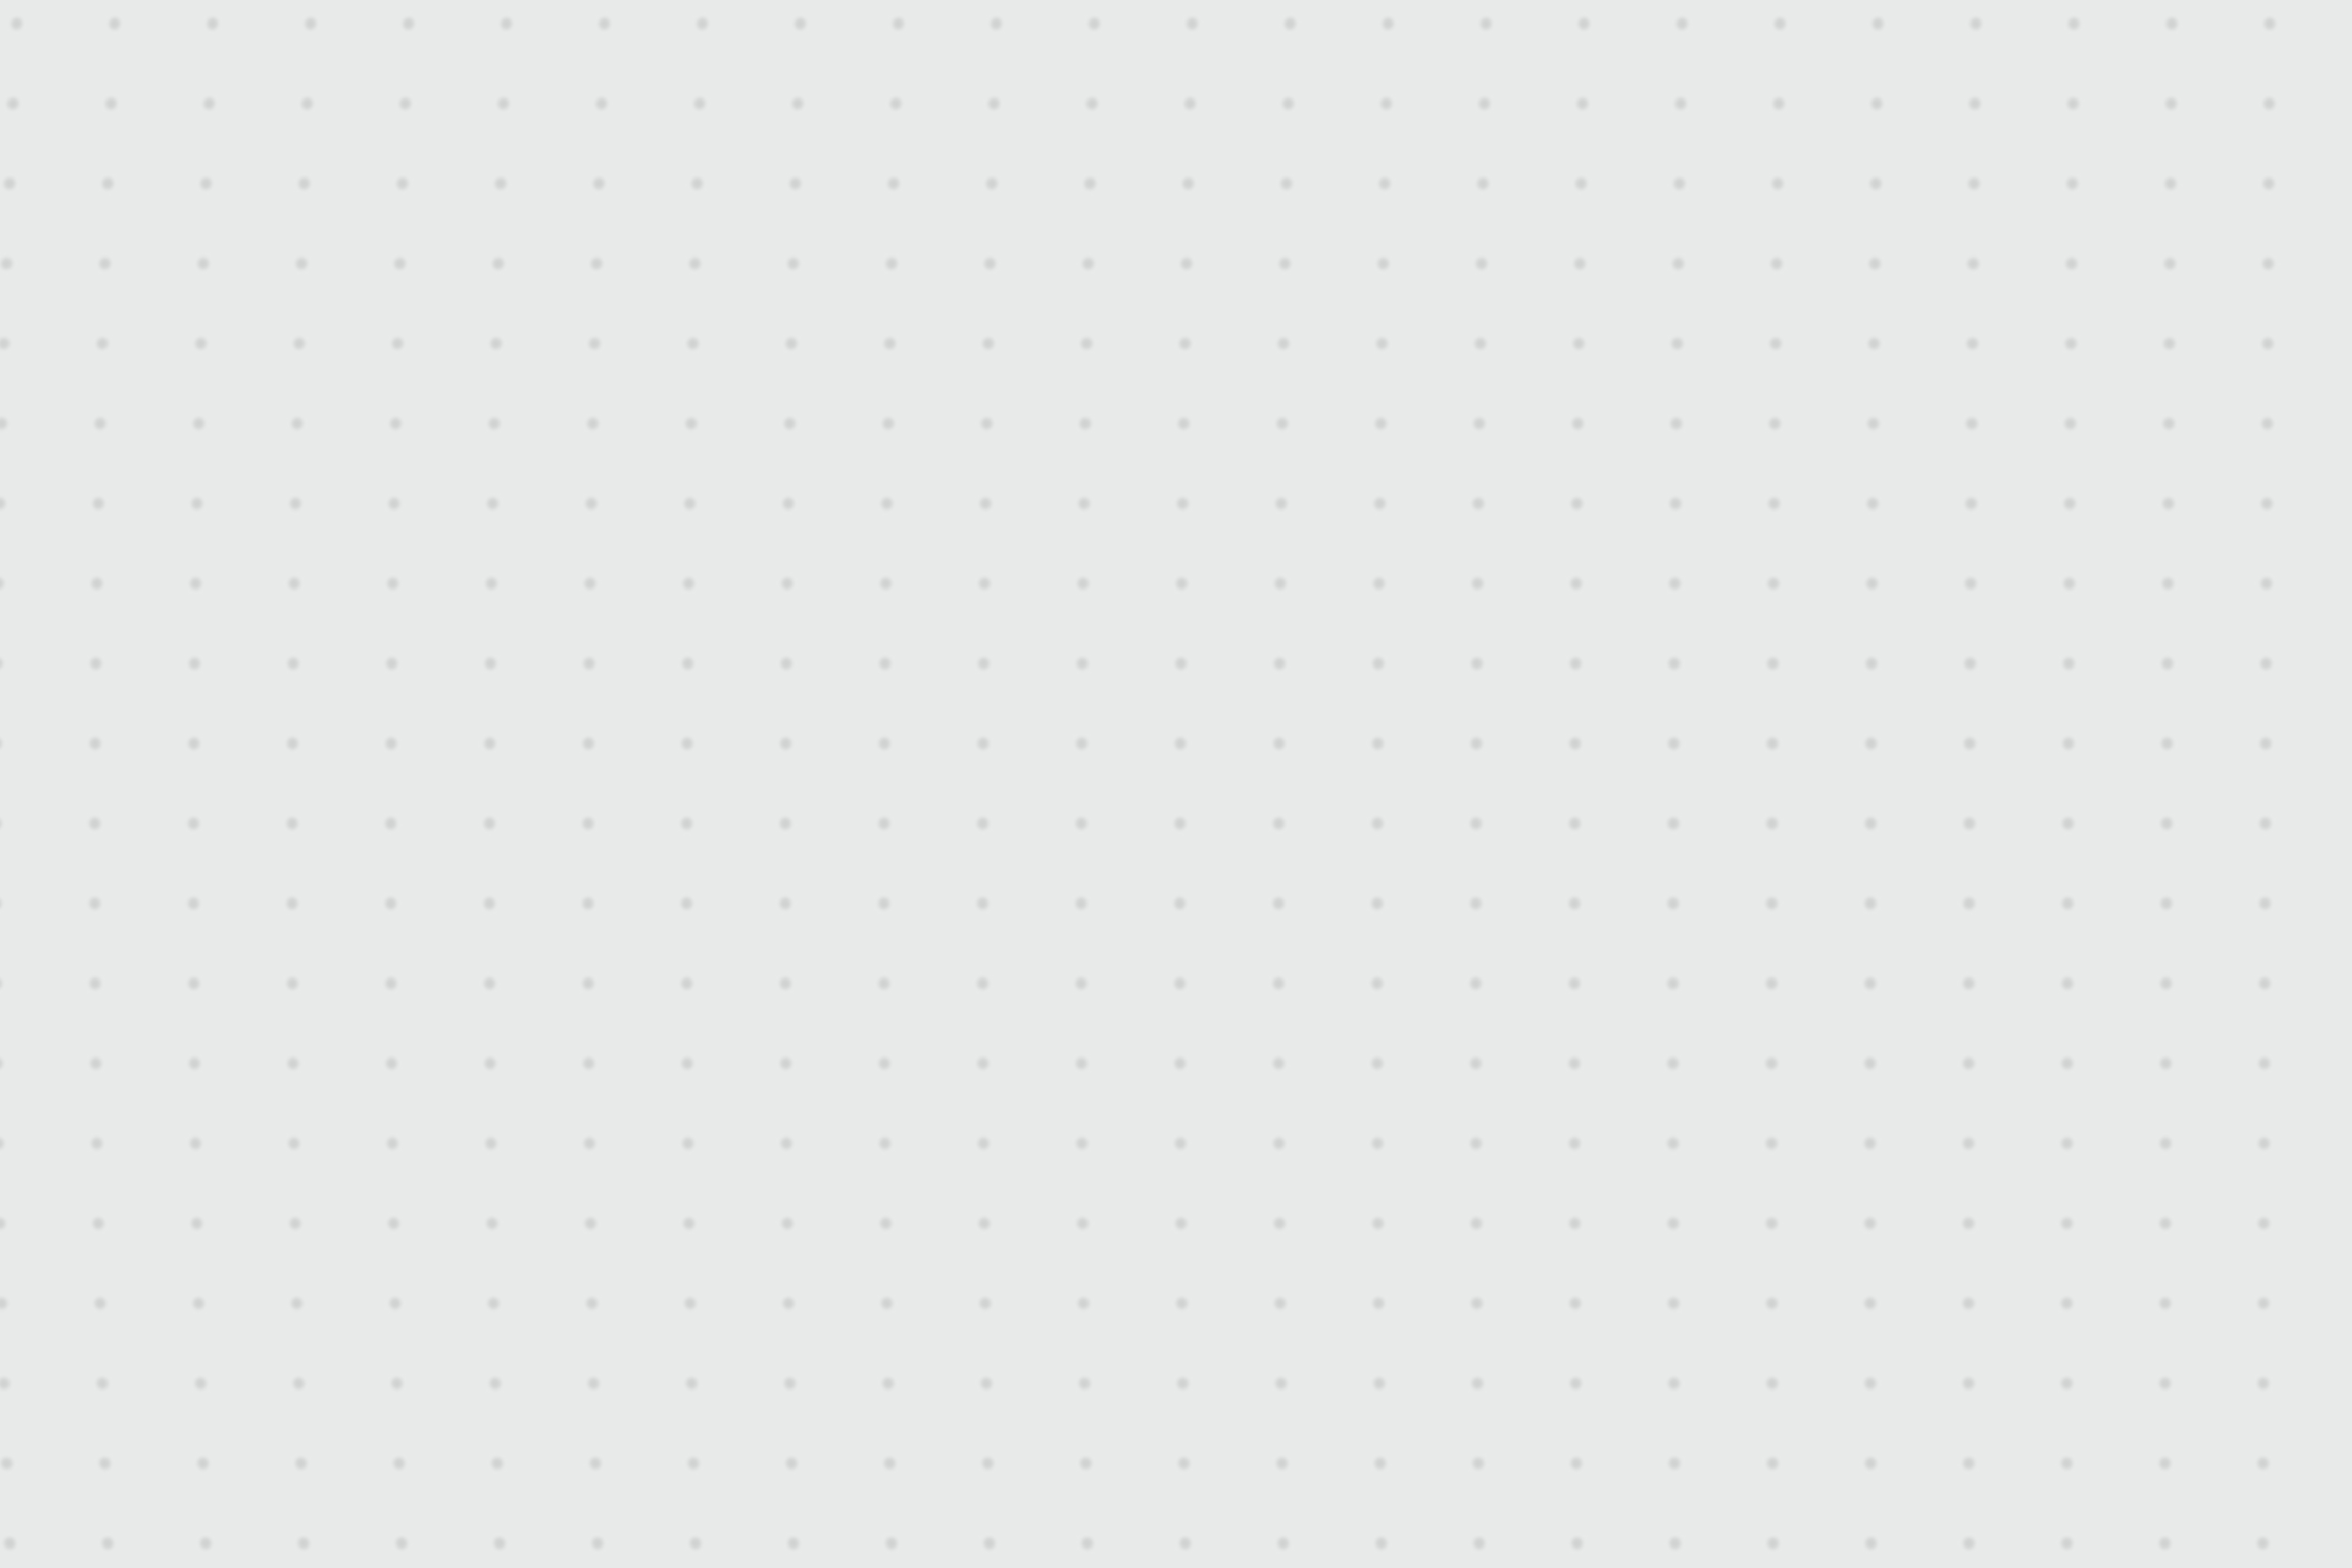
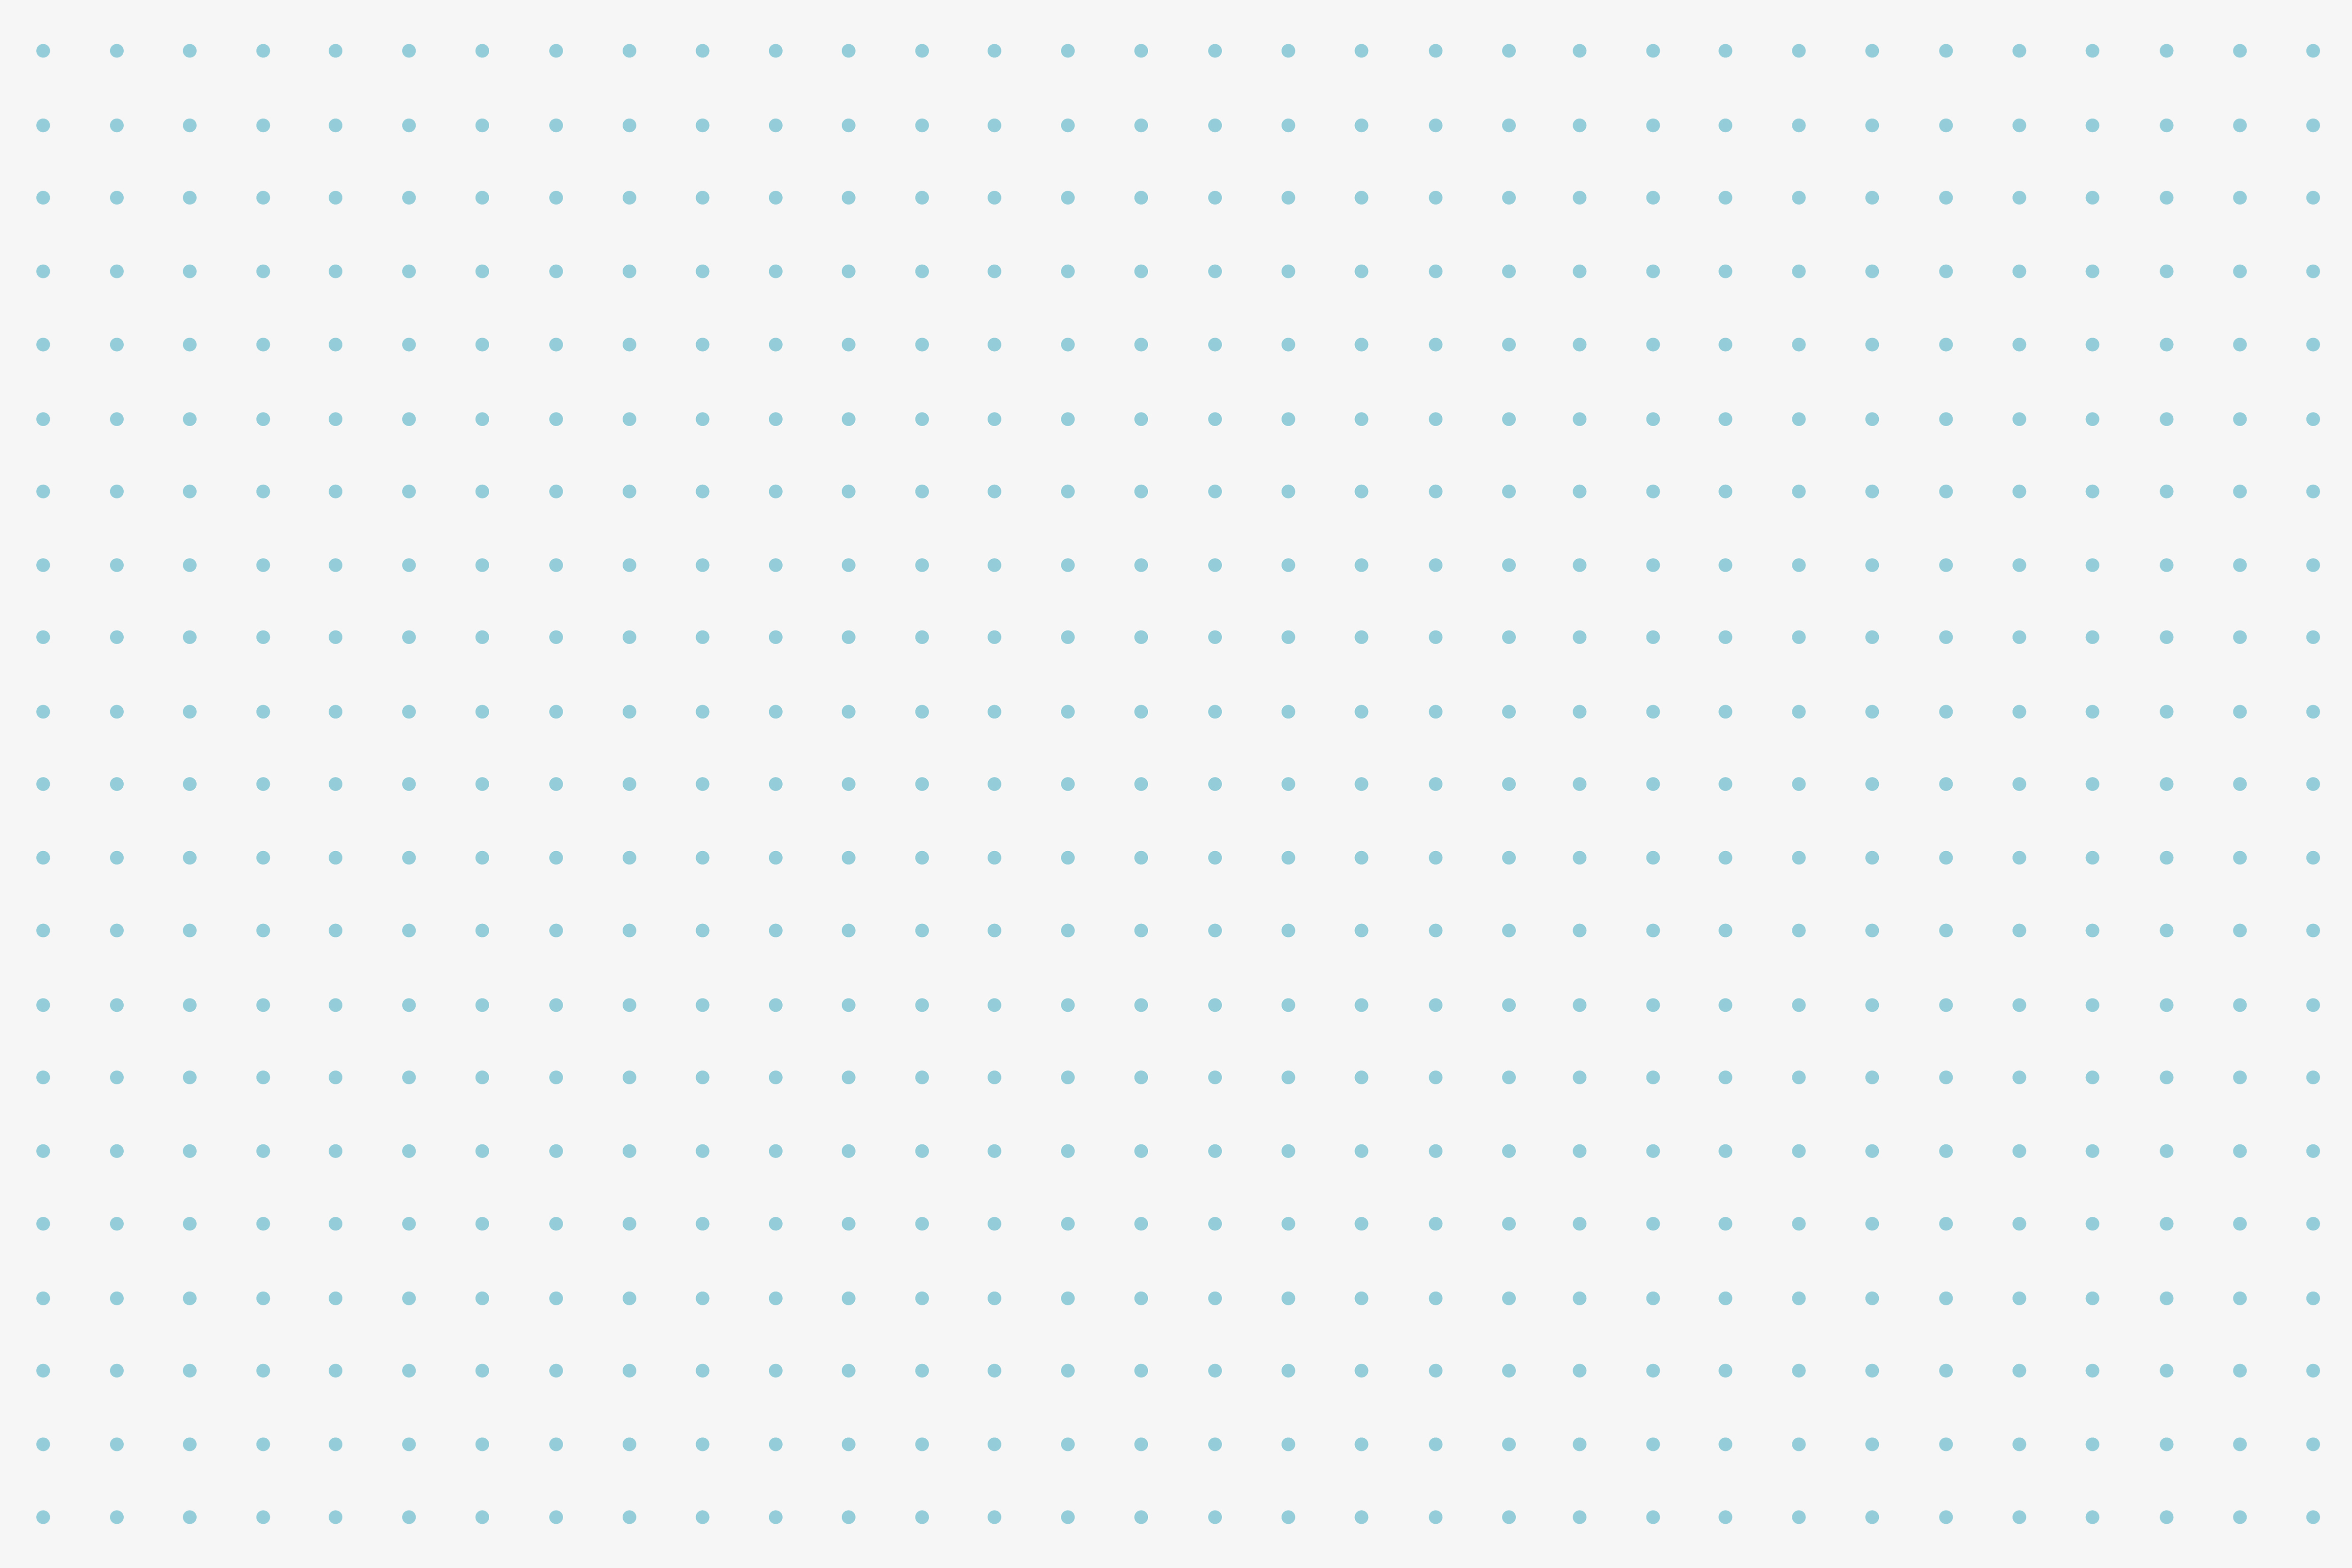
dotted background fix

diff --git a/src/index.css b/src/index.css
@@ -13,7 +13,7 @@ body {
   background-color: #fafafa;
   background-image: url("./assets/dotted-bg.jpg");
   background-repeat: repeat;
-  background-size: 500px auto;
+  background-size: 480px 320px;
   color: #1a1a2e;
   min-height: 100vh;
   -webkit-font-smoothing: antialiased;

diff --git a/.impeccable.md b/.impeccable.md
@@ -1,0 +1,23 @@
+## Design Context
+
+### Users
+Friend groups (2–6 people) who want to hold each other accountable on weekly tasks. Used Monday–Sunday, primarily on desktop browsers during the workday or in the evening. The user is already invested in the game because their friends are watching — the interface should reinforce that competitive energy rather than calm it down.
+
+### Brand Personality
+**Clean. Colorful. Clicky.**
+Three words: *competitive, playful, crisp.*
+The reference is neal.fun — generous whitespace, one clear action per screen, personality through small details not visual complexity. Layered with Mario Party's bold player colors and Duolingo's satisfying tactile feedback.
+
+### Aesthetic Direction
+- **Theme**: Light mode only (no dark mode for MVP)
+- **Background**: Off-white (#FAFAFA) with subtle dotted texture — quiet, the content does the talking
+- **Typography**: Nunito (rounded, friendly, game-like) + JetBrains Mono for invite codes and game-mechanic text
+- **Colors**: White surfaces, near-black text (#1A1A2E), light gray borders. Player colors (coral, teal, yellow, purple, orange, green) are the primary expressive element — they pop hard against white
+- **Anti-references**: No SaaS dashboards, no glassmorphism, no dark mode with glowing accents, no Notion/Linear vibes, no gem currencies or progress bars everywhere
+
+### Design Principles
+1. **Simplicity that feels alive** — strip away everything that doesn't serve the experience, then make what's left delightful
+2. **One focus per view** — each screen has one primary action; don't combine flows
+3. **Flat and crisp** — no shadows, no depth tricks, no gradients; confidence through flatness
+4. **Small, fast, satisfying animations** — every animation under 300ms; feels like tactile feedback not decoration
+5. **Neal.fun test** — if it would look at home on neal.fun, it belongs here; if it looks like a Figma showcase or YC demo, strip it back